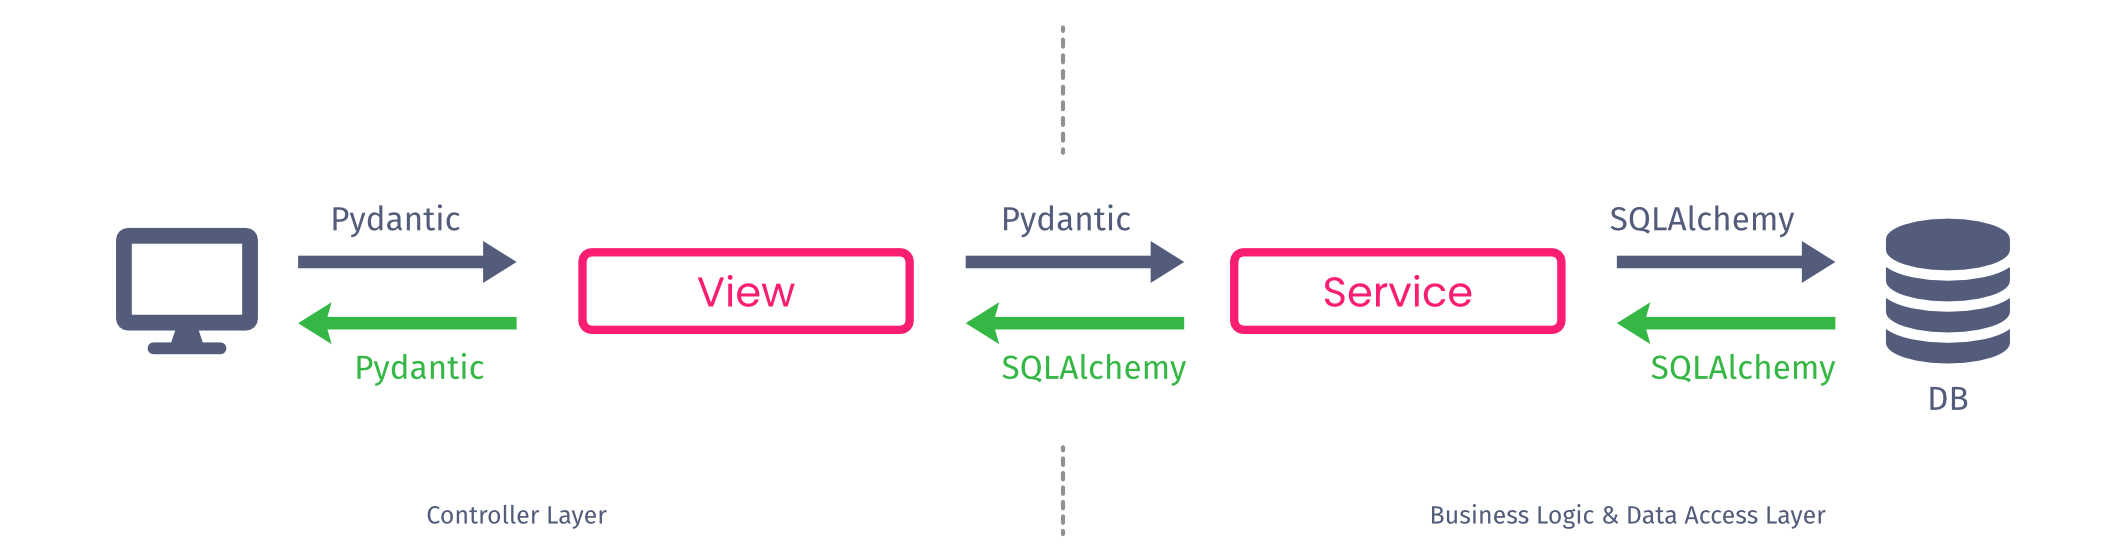
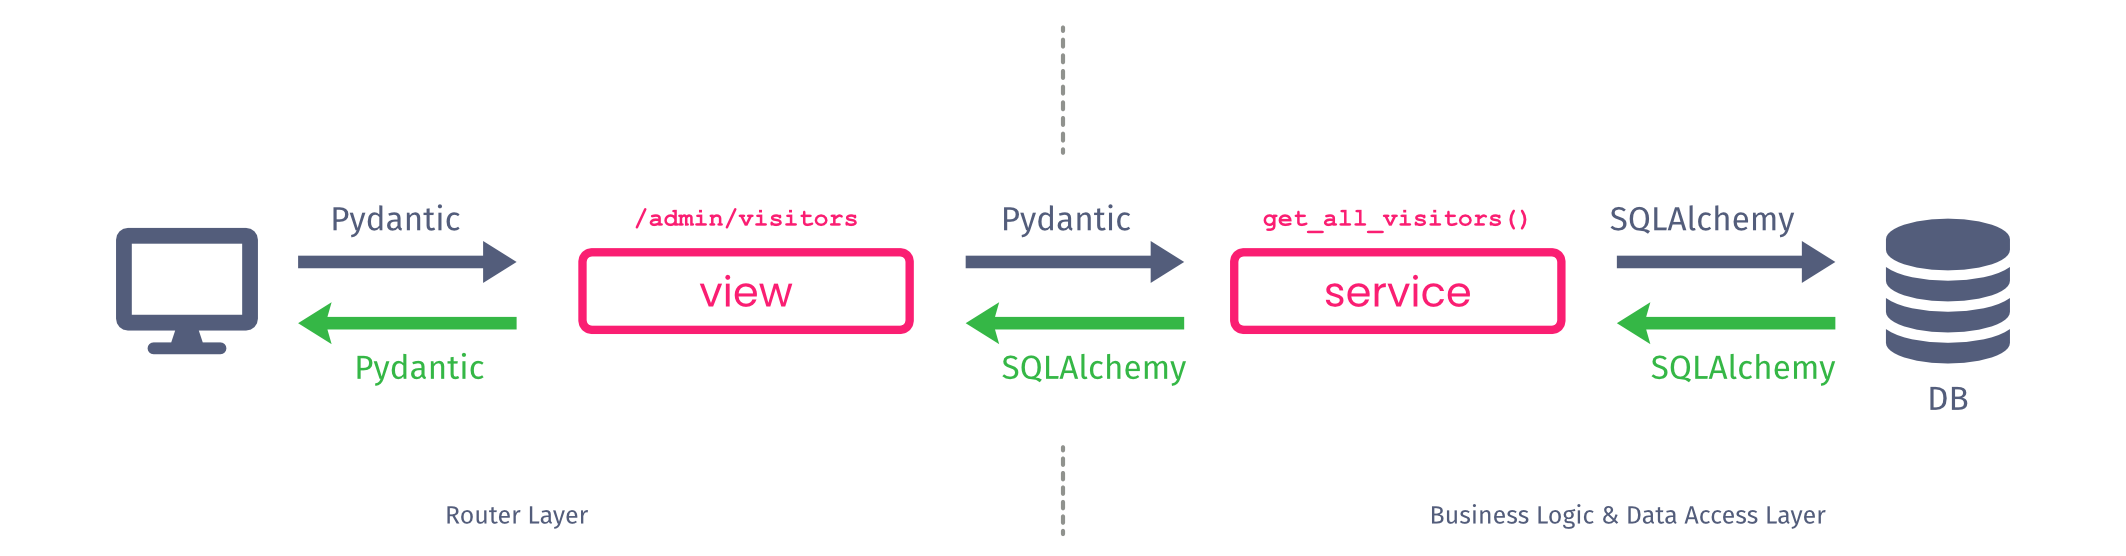
Improve architecture docs

diff --git a/README.md b/README.md
@@ -215,13 +215,6 @@ async def index(request: Request, visitor: Annotated[VisitorAuth, Depends(get_au
     pass
 ```
 
-After you made the request you will receive a response with the `JSON` body containing a boolean value indicating whether the asnwer was correct or not:
-```JSON
-{
-    "success": True
-}
-```
-
 The reason for storing the correct answer in the database is twofold:
 - we don't want to reveal the correct answer in the source code
 - we can quickly fix an incorrect answer by modifying the database entry
@@ -230,31 +223,37 @@ The reason for storing the correct answer in the database is twofold:
 
 
 ## Architecture
-The architecture of the web application is informed by the Scientific Computing standard for RESTful APIs. The standard the team follows is very closely modelled after structures such as the [Netflix Dispatch service](https://github.com/Netflix/dispatch) or the abstraction model described [here](https://camillovisini.com/coding/abstracting-fastapi-services).
+The architecture of the web application is informed by the Scientific Computing standard for RESTful API services. The standard the team follows is very closely modelled after structures such as the [Netflix Dispatch service](https://github.com/Netflix/dispatch) or the abstraction model described [here](https://camillovisini.com/coding/abstracting-fastapi-services).
 
-The following diagram illustrates the two layers our services are generally split into. Requests to the service are made using parameters defined in `pydantic` schemas. The routes responding to requests are implemented in a view module focusing solely on the validation of input and assembly of the response. In order to accomplish this, the routes make calls to functions defined in the service module. The service module hosts all business logic and data access calls. This allows the business logic to be used across multiple routes and easy to test. The service functions take `pydantic` schemas as inputs which can, but don't need to be, the same schemas as the ones used in the view module. In order to make things easier, often the service functions use standard arguments in addition or instead of `pydantic` models.
-
-A service function takes the `pydantic` schema and, depending on the use case, translates it into a `SQLAlchemy` model for database calls. The result of the database call is a `SQLAlchemy` model which is returned to the route in the view model. The route then translates the `SQLAlchemy` model into a `pydantic` schema for the response.
+The following diagram illustrates the two layers our services are generally split into and the data protocols that are used between these layers. 
 
 ![Service layer architecture](docs/RestfulServiceLayerDesign.png)
 
-The scavenger hunt application differs to the Scientific Computing standard RESTful API in that it renders web pages and provides a way for developers to extend it with puzzles. The folder structure is as follows:
+Requests to a service are made using parameters defined in `pydantic` schemas. The routes responding to requests are implemented in a view module focusing solely on the validation of input and assembly of the response. In order to accomplish this, routes make calls to functions defined in the service module, which hosts the business logic and data access calls. This allows the business logic to be used across multiple routes and easy to test. The service functions take `pydantic` schemas as inputs which can, but don't need to be, the same schemas as the ones used in the view module. In order to make things easier, often the service functions use standard function arguments in addition or instead of `pydantic` models as input.
+
+A service function interacts with the database using `SQLAlchemy`. The result of a transaction with the database is a `SQLAlchemy` model which is returned to the route in the view model. The route then translates the `SQLAlchemy` model into a `pydantic` schema for the response.
+
+> We don't tend to use a CRUD layer between the service layer and the database as we found it added unnecessary complexity.
+
+The scavenger hunt application differs to a Scientific Computing standard RESTful API service in that it renders web pages and provides a way for developers to extend it with puzzles. This resulted in a slightly different folder structure compared to our standard:
 
 ```
 |- openday_scavenger
-|  |- api
-|  |  |- puzzles            #common service functions for puzzles management
-|  |  |- visitors           #common service functions for visitor handling
-|  |- puzzles
+|  |- api                   #RESTful API like structure
+|  |  |- puzzles            #service functions, db models and dependencies for puzzle management
+|  |  |- visitors           #service functions, db models and dependencies for visitor handling
+|  |- puzzles               #folder for the puzzles
+|  |  |- demo               #demo puzzle folder
+|  |  |  |- static          #folder for all static assets for the demo puzzle
+|  |  |  |- views.py        #folder for all the routes of the demo puzzle
 |  |- static
-|  |  |- css
-|  |  |- html
-|  |  |- js
-|  |  |- webfonts
+|  |  |- css                #common CSS files
+|  |  |- html               #common HTML files
+|  |  |- js                 #common JavaScript files
+|  |  |- webfonts           #common fonts
 |  |- views
-|  |  |- admin
-|  |  |- game
-
+|  |  |- admin              #routes that render all admin HTML pages
+|  |  |- game               #routes that render all game related HTML pages
 ```
 
 
